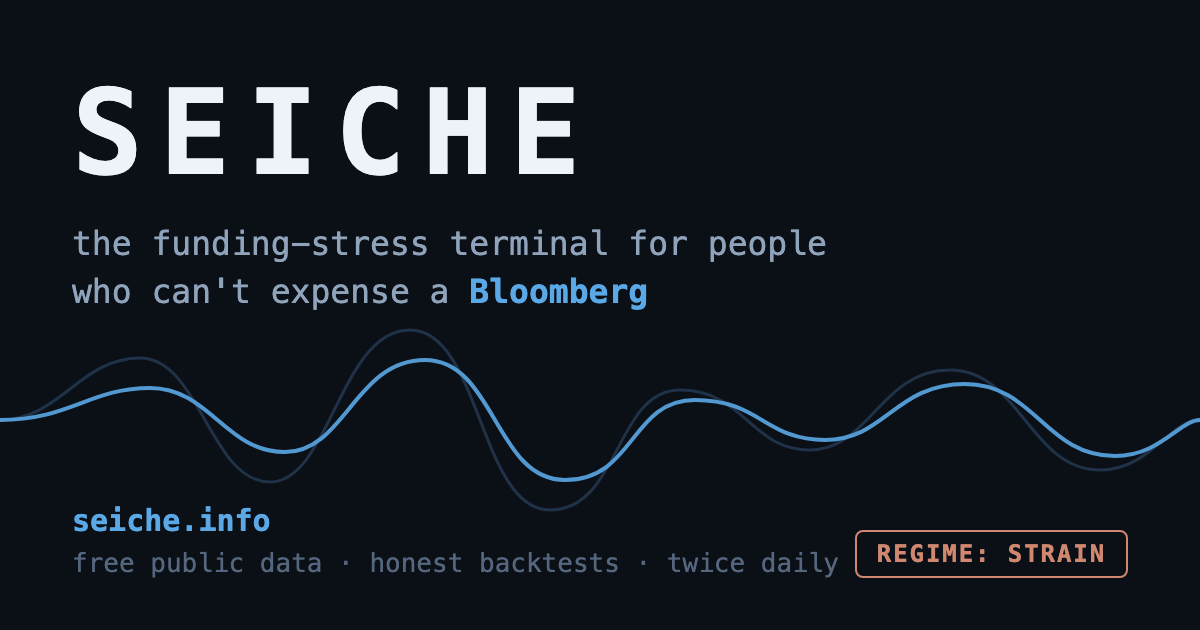
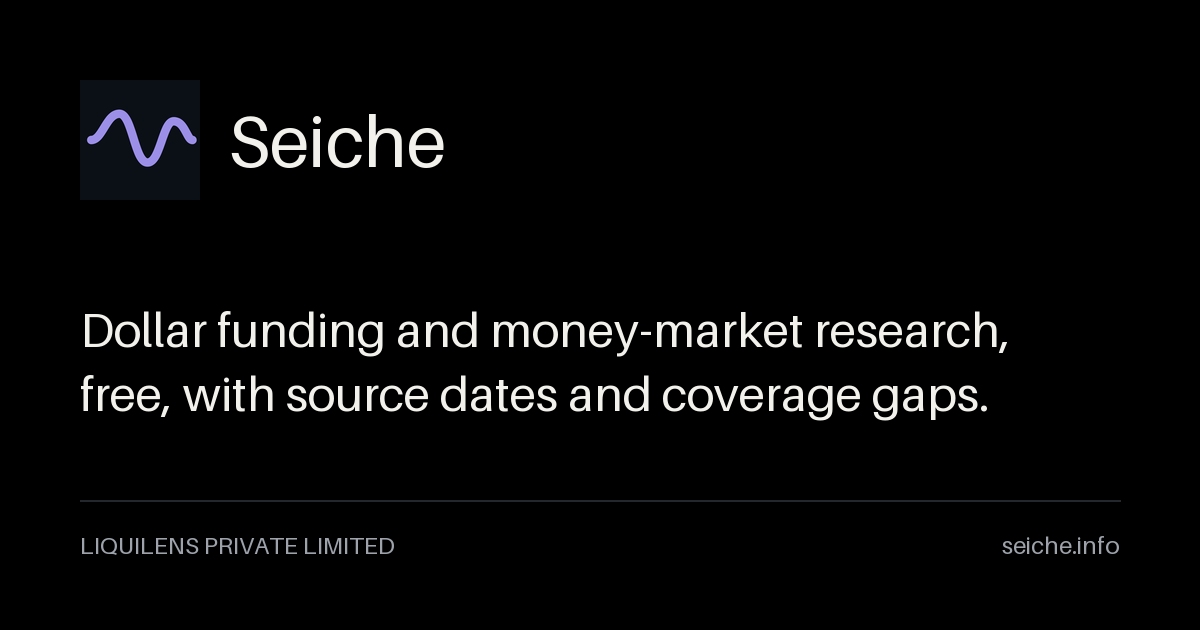
Neutral share card in place of the two retired Seiche cards
og.png and og2.png are linked by the home shell, several static pages, dispatch and referee pages
and the AI catalog logoUrl. Both showed a frozen "REGIME: STRAIN" reading, "honest backtests" and
"forecasts sealed before the outcome" while the current release withholds those readings, and both
named another company. The same two URLs now serve one claim-free card: the Seiche mark, the name,
one line in the site's own words, the operator and the domain (scripts/render_share_card.py).
Routes with generated cards keep them.

Separate commit so it can be dropped on review without touching the static page work.

diff --git a/scripts/render_share_card.py b/scripts/render_share_card.py
@@ -1,0 +1,45 @@
+#!/usr/bin/env python3
+"""Render Seiche's neutral share card into frontend/public/og.png and og2.png.
+
+The previous cards carried readings and claims the current release withholds (a frozen
+"REGIME: STRAIN", "honest backtests", "forecasts sealed before the outcome") and named another
+company. Pages, feeds and catalogs keep linking the same two URLs; this card states only what
+Seiche is, in the site's own words. Routes with generated cards keep them (seiche.social_cards).
+"""
+from __future__ import annotations
+
+from pathlib import Path
+
+from PIL import Image, ImageDraw, ImageFont
+
+ROOT = Path(__file__).resolve().parents[1]
+PUBLIC = ROOT / "frontend/public"
+MARK = PUBLIC / "icons/pwa-512.png"
+WIDTH, HEIGHT = 1200, 630
+FIELD, PAPER, MUTED, LINE = "#000000", "#f2f1ec", "#9da2ab", "#23272e"
+
+
+def _font(size: int) -> ImageFont.ImageFont:
+    # Pillow's embedded font: no machine-specific font substitution.
+    return ImageFont.load_default(size=size)
+
+
+def render() -> Image.Image:
+    card = Image.new("RGB", (WIDTH, HEIGHT), FIELD)
+    draw = ImageDraw.Draw(card)
+    mark = Image.open(MARK).convert("RGBA").resize((120, 120), Image.Resampling.LANCZOS)
+    card.paste(mark, (80, 80), mark)
+    draw.text((228, 140), "Seiche", font=_font(72), fill=PAPER, anchor="lm")
+    draw.text((80, 300), "Dollar funding and money-market research,", font=_font(48), fill=PAPER)
+    draw.text((80, 364), "free, with source dates and coverage gaps.", font=_font(48), fill=PAPER)
+    draw.line((80, 500, WIDTH - 80, 500), fill=LINE, width=2)
+    draw.text((80, 530), "LIQUILENS PRIVATE LIMITED", font=_font(24), fill=MUTED)
+    draw.text((WIDTH - 80, 530), "seiche.info", font=_font(24), fill=MUTED, anchor="ra")
+    return card
+
+
+if __name__ == "__main__":
+    card = render()
+    for name in ("og.png", "og2.png"):
+        card.save(PUBLIC / name, format="PNG", optimize=True)
+    print("Rendered frontend/public/og.png and og2.png")
